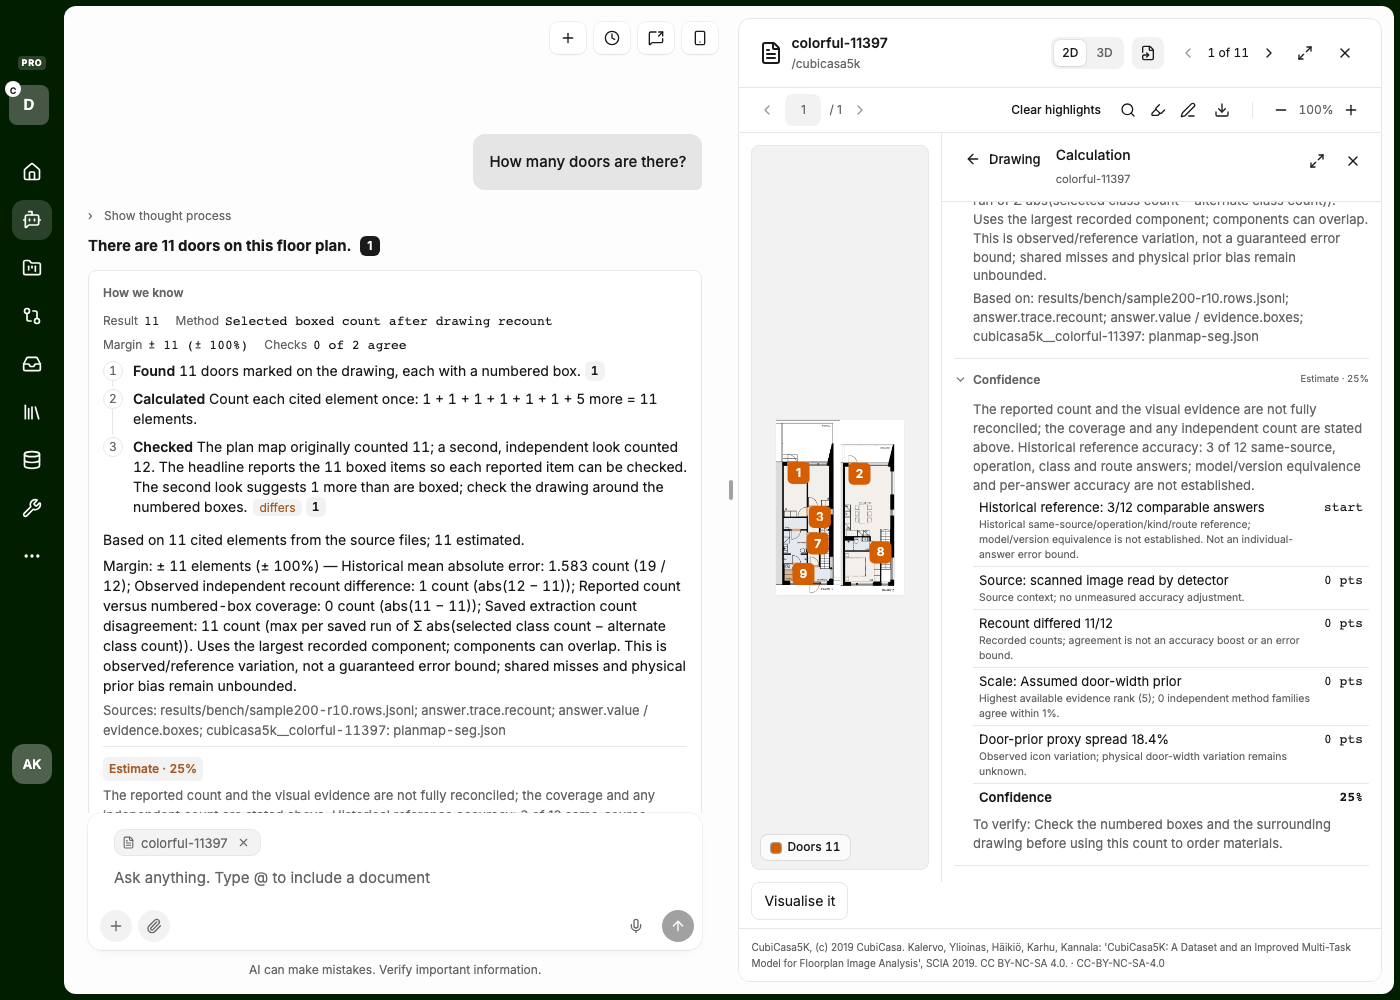
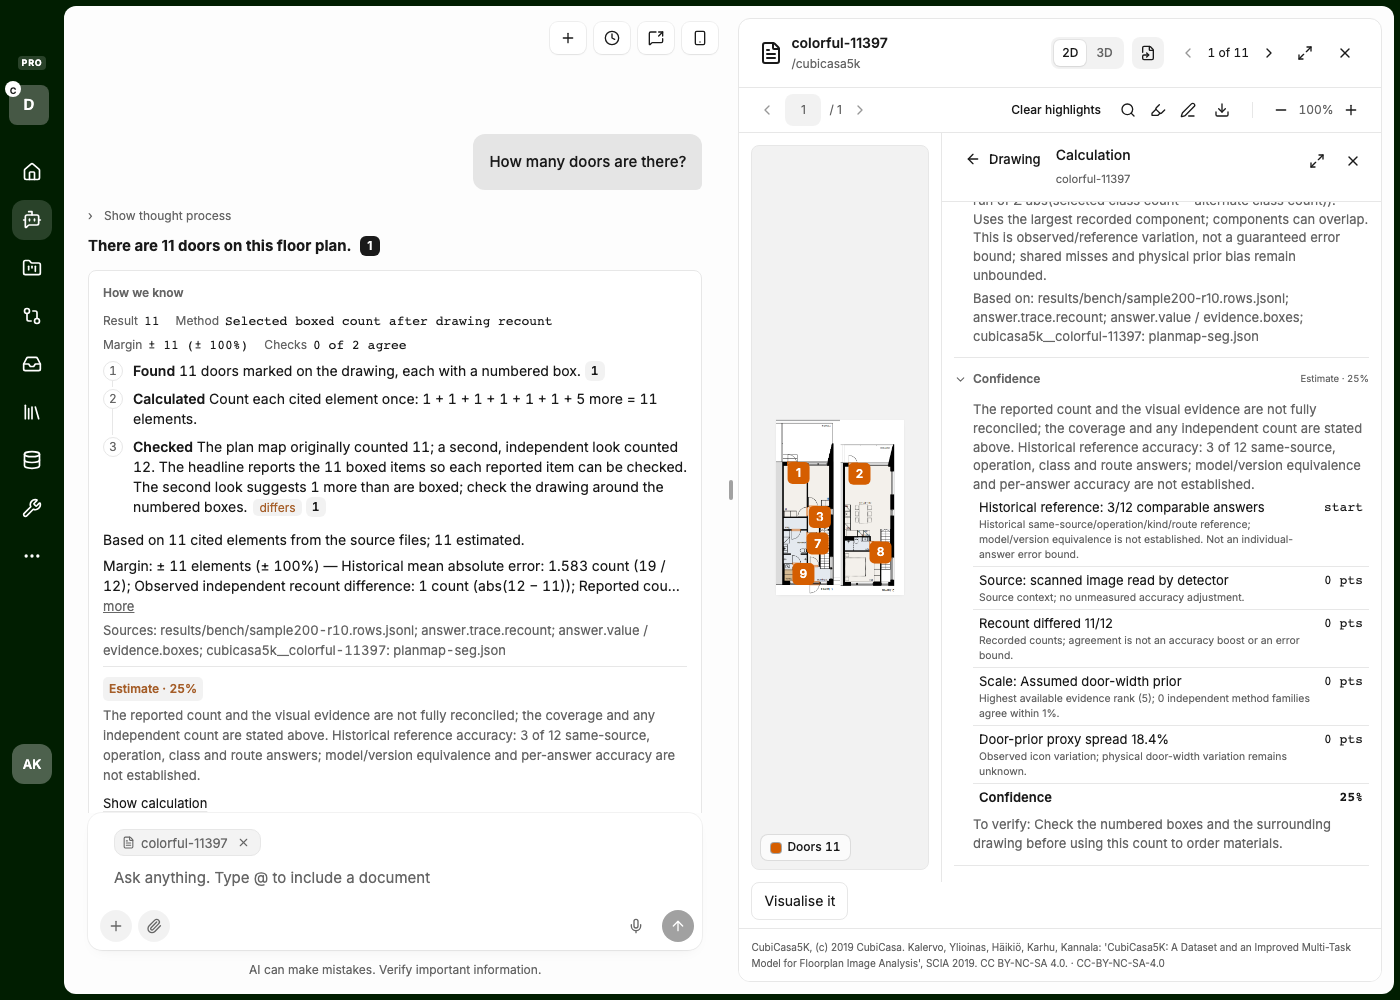
F-EVUI-WEB: main steps with a collapsed Show all N steps, clamped margin and sources on the card, bottom padding so the card footer scrolls clear of the composer
Claude-Session: https://claude.ai/code/session_01GYqh9VWiXR7AfuxwTwDLZf

diff --git a/web/src/components/calc-panel.tsx b/web/src/components/calc-panel.tsx
@@ -57,6 +57,8 @@ function RowsTable({ calc, onFocus, docTitle }: { calc: Calculation; onFocus?: (
   </>
 }
 
+const MAIN_STEPS = 12
+
 /** The technical view of "How we know": every step with its numbers, inputs and sources, the per-element table, checks, margin and confidence. */
 export function CalculationPanel({ reasoning, title, onClose, onFocus, docTitle }: {
   reasoning: Reasoning; title?: string; onClose: () => void; onFocus?: (target: FocusTarget) => void; docTitle?: (id: string) => string
@@ -111,15 +113,29 @@ export function CalculationPanel({ reasoning, title, onClose, onFocus, docTitle 
       </Section>}
 
       {!!calc?.steps.length && <Section id="steps" title="Steps" hint={`${calc.steps.length}`}>
-        <ol className="calc-steps">{calc.steps.map((step, i) => <li key={step.id} data-step={step.id}>
-          <div className="calc-step-head"><span className="calc-index">{i + 1}</span><strong>{step.label}</strong></div>
-          <p className="calc-expr"><code>{step.expr}</code>{step.value != null && <span className="calc-eqline"><span className="calc-eq">=</span> <b className="calc-value">{withUnit(step.value, step.unit)}</b></span>}</p>
-          {step.note && <p className="calc-note">{step.note}</p>}
-          {!!step.inputs.length && <details className="calc-inputs"><summary>Inputs ({step.inputs.length})</summary>
-            <table aria-label={`Inputs of ${step.label}`}><thead><tr><th scope="col">Input</th><th scope="col" className="num">Value</th><th scope="col">Source</th></tr></thead>
-              <tbody>{step.inputs.map((input, k) => <tr key={k}><th scope="row">{input.name}</th><td className="num">{withUnit(input.value, input.unit)}</td><td><SourceLink source={input.source} docTitle={docTitle} onFocus={focus} /></td></tr>)}</tbody></table>
-          </details>}
-        </li>)}</ol>
+        {(() => {
+          const all = calc.steps
+          // Engine marks supporting figures level="detail"; until it does, the first few steps lead and the rest fold away.
+          const leveled = all.some((x) => x.level)
+          const isMain = (x: (typeof all)[number], i: number) => leveled ? x.level !== 'detail' : i < MAIN_STEPS
+          const main = all.map((x, i) => ({ x, i })).filter(({ x, i }) => isMain(x, i))
+          const rest = all.map((x, i) => ({ x, i })).filter(({ x, i }) => !isMain(x, i))
+          const item = ({ x: step, i }: { x: (typeof all)[number]; i: number }) => <li key={step.id} data-step={step.id} value={i + 1}>
+            <div className="calc-step-head"><span className="calc-index">{i + 1}</span><strong>{step.label}</strong></div>
+            <p className="calc-expr"><code>{step.expr}</code>{step.value != null && <span className="calc-eqline"><span className="calc-eq">=</span> <b className="calc-value">{withUnit(step.value, step.unit)}</b></span>}</p>
+            {step.note && <p className="calc-note">{step.note}</p>}
+            {!!step.inputs.length && <details className="calc-inputs"><summary>Inputs ({step.inputs.length})</summary>
+              <table aria-label={`Inputs of ${step.label}`}><thead><tr><th scope="col">Input</th><th scope="col" className="num">Value</th><th scope="col">Source</th></tr></thead>
+                <tbody>{step.inputs.map((input, k) => <tr key={k}><th scope="row">{input.name}</th><td className="num">{withUnit(input.value, input.unit)}</td><td><SourceLink source={input.source} docTitle={docTitle} onFocus={focus} /></td></tr>)}</tbody></table>
+            </details>}
+          </li>
+          return <>
+            <ol className="calc-steps">{main.map(item)}</ol>
+            {!!rest.length && <details className="calc-more-steps" data-testid="calc-more-steps"><summary>Show all {all.length} steps ({rest.length} more)</summary>
+              <ol className="calc-steps">{rest.map(item)}</ol>
+            </details>}
+          </>
+        })()}
       </Section>}
 
       {!!calc?.rows.length && <Section id="rows" title="Per-element figures" hint={`${calc.rows.length}`}><RowsTable calc={calc} onFocus={focus} docTitle={docTitle} /></Section>}

diff --git a/web/src/components/evidence-card.tsx b/web/src/components/evidence-card.tsx
@@ -1,7 +1,15 @@
+import { useState } from 'react'
 import type { Answer, Citation } from '../lib/types'
 import { keyNumbers } from '../lib/calc-view'
 import { confidenceText, marginText } from '../lib/evidence-format'
 import './evidence-card.css'
+
+/** Long figures stay on two lines with a toggle; the full text is always in the Calculation panel. */
+function Clamped({ text, className }: { text: string; className?: string }) {
+  const [open, setOpen] = useState(false)
+  const long = text.length > 150
+  return <p className={className}><span className={long && !open ? 'evidence-clamp' : undefined}>{text}</span>{long && <> <button type="button" className="evidence-more" aria-expanded={open} onClick={() => setOpen(!open)}>{open ? 'less' : 'more'}</button></>}</p>
+}
 
 /** "How we know": the steps behind an answer and how sure we are. Steps with a citation open it. */
 export function EvidenceCard({ answer, selected, onOpenCitation, onShowCalculation }: { answer: Answer; selected?: Citation; onOpenCitation: (citation: Citation) => void; onShowCalculation?: () => void }) {
@@ -33,9 +41,9 @@ export function EvidenceCard({ answer, selected, onOpenCitation, onShowCalculati
     </ol>
     {reasoning.based_on && <p className="evidence-quantity">{reasoning.based_on.text}</p>}
     {reasoning.margin && <div className="evidence-quantity">
-      <p>{marginText(reasoning.margin)}</p>
-      {Object.entries(reasoning.margin.by_kind ?? {}).map(([kind, margin]) => <p key={kind}>{kind}: {marginText(margin)}{margin.sources.length > 0 && <span className="evidence-reason"> Sources: {margin.sources.join('; ')}</span>}</p>)}
-      {reasoning.margin.sources.length > 0 && <p className="evidence-reason">Sources: {reasoning.margin.sources.join('; ')}</p>}
+      <Clamped text={marginText(reasoning.margin)} />
+      {Object.entries(reasoning.margin.by_kind ?? {}).map(([kind, margin]) => <Clamped key={kind} text={`${kind}: ${marginText(margin)}${margin.sources.length > 0 ? ` Sources: ${margin.sources.join('; ')}` : ''}`} />)}
+      {reasoning.margin.sources.length > 0 && <Clamped className="evidence-reason" text={`Sources: ${reasoning.margin.sources.join('; ')}`} />}
     </div>}
     <div className="evidence-confidence">
       <span className={`evidence-pill ${tone}`} aria-label={`Confidence: ${confidenceText(confidence)}`}>{confidenceText(confidence)}</span>

diff --git a/web/src/components/calc-panel.test.tsx b/web/src/components/calc-panel.test.tsx
@@ -99,3 +99,15 @@ it('renders the additive scan fields when present and nothing when absent', asyn
   await act(async () => root.render(<CalculationPanel reasoning={scanReasoning} onClose={() => {}} />))
   expect(host.querySelector('[data-section="scale"], [data-section="reader"]')).toBeNull()
 })
+
+it('folds supporting steps behind "Show all N steps", by level or by count', async () => {
+  const base = scanReasoning.calc!
+  const mk = (n: number, level?: (i: number) => 'main' | 'detail') => Array.from({ length: n }, (_, i) => ({ id: `s${i}`, label: `Step ${i}`, expr: 'x', value: i, unit: 'count', inputs: [], ...(level ? { level: level(i) } : {}) }))
+  await act(async () => root.render(<CalculationPanel reasoning={{ ...scanReasoning, calc: { ...base, steps: mk(30) } }} onClose={() => {}} />))
+  expect(host.querySelectorAll('.calc-steps')[0].children.length).toBe(12)
+  expect(host.querySelector('[data-testid="calc-more-steps"] summary')?.textContent).toContain('Show all 30 steps')
+  await act(async () => root.render(<CalculationPanel reasoning={{ ...scanReasoning, calc: { ...base, steps: mk(30, (i) => i < 3 ? 'main' : 'detail') } }} onClose={() => {}} />))
+  expect(host.querySelectorAll('.calc-steps')[0].children.length).toBe(3)
+  await act(async () => root.render(<CalculationPanel reasoning={{ ...scanReasoning, calc: { ...base, steps: mk(5) } }} onClose={() => {}} />))
+  expect(host.querySelector('[data-testid="calc-more-steps"]')).toBeNull()
+})

diff --git a/web/src/components/evidence-card.test.tsx b/web/src/components/evidence-card.test.tsx
@@ -79,3 +79,13 @@ it('preserves a zero exact-count margin and names the calibration sample', async
   expect(host.textContent).toContain('Margin: ± 0 elements (± 0%)')
   expect(host.textContent).toContain('Calibration: 1/2')
 })
+
+it('clamps a long margin and sources line to two lines with a more toggle', async () => {
+  const long = 'Historical mean absolute error and observed recount differences, ' + 'x'.repeat(200)
+  const withMargin = { ...answer, reasoning: { ...answer.reasoning!, margin: { value: 1, unit: 'count', pct: 5, why: long, sources: [long], by_kind: {} } } } as unknown as Answer
+  await act(async () => root.render(<EvidenceCard answer={withMargin} onOpenCitation={vi.fn()} />))
+  expect(host.querySelectorAll('.evidence-clamp').length).toBeGreaterThan(0)
+  const more = host.querySelector<HTMLButtonElement>('.evidence-more')!
+  await act(async () => more.click())
+  expect(more.textContent).toBe('less')
+})

diff --git a/web/src/components/evidence-card.css b/web/src/components/evidence-card.css
@@ -25,3 +25,7 @@
 .evidence-numbers dd { margin: 0; font-family: var(--font-mono); font-variant-numeric: tabular-nums; font-size: var(--text-body-sm); }
 .evidence-calc-link { margin-top: 8px; border: 0; background: none; padding: 0; font: inherit; font-size: var(--text-body-sm); color: var(--foreground); text-decoration: underline; text-decoration-color: var(--border); text-underline-offset: 3px; cursor: pointer; }
 .evidence-calc-link:hover, .evidence-calc-link:focus-visible { text-decoration-color: currentColor; }
+
+.evidence-clamp { display: -webkit-box; -webkit-box-orient: vertical; -webkit-line-clamp: 2; line-clamp: 2; overflow: hidden; }
+.evidence-more { border: 0; background: none; padding: 0; font: inherit; font-size: var(--text-body-sm); color: var(--muted-foreground); text-decoration: underline; cursor: pointer; }
+.evidence-more:focus-visible { outline: 2px solid var(--ring, currentColor); outline-offset: 2px; }

diff --git a/web/src/lib/types.ts b/web/src/lib/types.ts
@@ -45,7 +45,7 @@ export interface CalculationMethod { id: string; label: string; why_chosen: stri
 export interface Calculation {
   formula: string
   method?: CalculationMethod
-  steps: { id: string; label: string; expr: string; value: number | null; unit: string; note?: string; operation?: string;
+  steps: { id: string; label: string; expr: string; value: number | null; unit: string; note?: string; operation?: string; level?: 'main' | 'detail';
     inputs: { name: string; value: unknown; unit: string; source: CalculationSource }[] }[]
   rows: { item_id: string; label: string; values: Record<string, unknown>; source: CalculationSource }[]
   result: { value: number | Record<string, number>; unit: string; rounded_as: string;

diff --git a/web/src/components/calc-panel.css b/web/src/components/calc-panel.css
@@ -87,3 +87,7 @@ button.calc-node:hover, button.calc-node:focus-visible { background: var(--ink-w
 .calc-method p { margin: 0; }
 .calc-method strong { font-weight: 500; }
 .calc-alternatives { margin-left: 0; margin-top: 6px; }
+
+.calc-more-steps { margin-top: 12px; }
+.calc-more-steps > summary { cursor: pointer; font-size: var(--text-body-sm); color: var(--muted-foreground); padding: 6px 0; }
+.calc-more-steps > .calc-steps { margin-top: 8px; }

diff --git a/web/src/styles/app.css b/web/src/styles/app.css
@@ -975,3 +975,5 @@ button:active:not(:disabled), .rail-item:active { transform: scale(.94); transit
 @media (prefers-reduced-motion: reduce) {
   .chat-workspace.has-viewer .document-viewer, .evidence-region.text-highlight > rect { animation: none; }
 }
+
+.conversation { padding-bottom: 40px; scroll-padding-bottom: 40px; }
